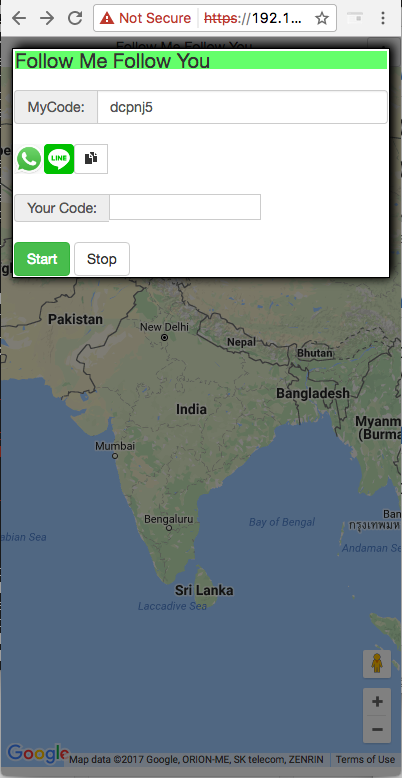
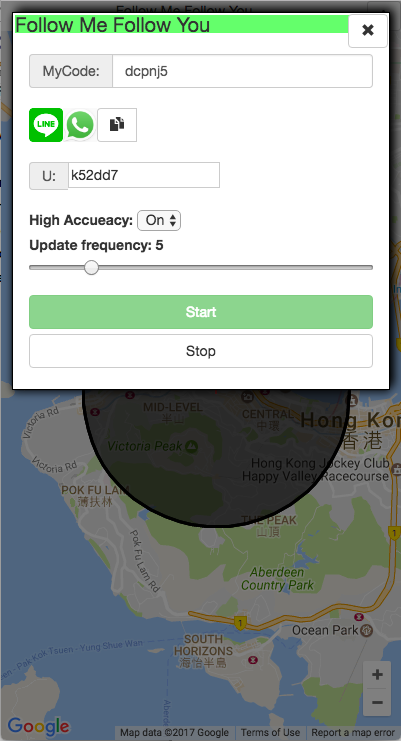
see update 2017-02-14 in readme.md

diff --git a/js/index.js b/js/index.js
@@ -1,3 +1,5 @@
+"use strict";
+var gMapKey = 'YOUR_GOOGLE_MAP_JAVASCRIPT_API_KEY';
 var dheight = (window.innerHeight > 0) ? window.innerHeight : scree.height;
 var watchId = {}; //global-scoped variable for stop function to work.
 var mapDiv = document.getElementById("map");
@@ -6,8 +8,10 @@ var uPosition = {};
 var myCode = document.getElementById("sessionid").innerHTML;
 var me;
 var uMarkers = [];
-var gMapKey = 'YOUR_GOOGLE_MAP_JAVASCRIPT_API_KEY';
 var queryUCode;
+var gmap;
+var highAccuracy = $('#highAccuracy').val();
+var updateFrequency = $('#updateFrequency-fill').val();
 
 document.getElementById("myCodeBox").innerHTML = myCode;
 
@@ -17,9 +21,8 @@ $("#uCodeInput").change(function(){
 
 dheight = dheight -30;
 
-class marker{
-
-  constructor(map, name, scale, location, color = '#F00'){
+var marker = class{
+  constructor(map, name, scale, location, color){
     this.map = map;
     this.name = name;
     this.scale = scale;
@@ -46,7 +49,6 @@ class marker{
       atrokeWeight: 1,
       map: this.map
     });
-
   }
 
   updateLocation(location){
@@ -88,8 +90,8 @@ function queryUpdateUCode(){
         youCode: uCode
       },
       success: function(result){
-        result = JSON.parse(result);
         if(result != ""){
+          result = JSON.parse(result);
           result = {coords:{accuracy: result.accuracy, latitude: result.lat, longitude: result.lng}};
           updateUMarkers(uCode, result);
         }
@@ -102,20 +104,37 @@ function queryUpdateUCode(){
 
 function startLocation(){
   if(navigator.geolocation){
-    this.me = new marker(gmap, "M", 20, {lat: 0, lng: 0, accuracy: 1000}, "#000");
-    var watchId = navigator.geolocation.watchPosition(updateMPosition);
-  } else{
+    me = new marker(gmap, "M", 20, {lat: 0, lng: 0, accuracy: 1000}, "#000");
+    var watchId = navigator.geolocation.watchPosition(updateMPosition,
+      function(error){
+        if(error.code == 1){
+          alert('Please enable Location Service and try again');
+          $("#startPButton").prop('disabled', false);
+        }else if(error.code == 2){
+          alert('Position is currently unavailable, please turn on WiFi and/or GPS.');
+          $("#startPButton").prop('disabled', false);
+        }else if(error.code == 3){
+          alert('Position timeout.');
+        }
+      },{
+        enableHighAccuracy : highAccuracy,
+        maximumAge : 0
+      }
+    );
+  }else{
     alert("Please enable location service or location service is not supported on your device.");
   }
   uCode = document.getElementById("uCodeInput").value;
   queryUCode = setInterval(function(){
-    queryUpdateUCode();
-  }, 5000);
+    if(uCode != ''){
+      queryUpdateUCode();
+    }
+  }, updateFrequency*1000 );
 };
 
 function updateMPosition(position){
-  this.me.updateLocation(position);
-  this.me.updateOnMap();
+  me.updateLocation(position);
+  me.updateOnMap();
   $.ajax({
     type: "POST",
     url: "fmfu.php",
@@ -126,16 +145,16 @@ function updateMPosition(position){
       youCode: uCode
     },
     success: function(result){
-      result = JSON.parse(result);
       if(result != ""){
+        result = JSON.parse(result);
         result = {coords:{accuracy: result.accuracy, latitude: result.lat, longitude: result.lng}};
         updateUMarkers(uCode, result);
       }
     },
     error: function(error){
+      console.debug("[DEBUG]121 error: ", error);
     }
   });
-
 }
 
 function updateUMarkers(uCode, uPosition){
@@ -144,7 +163,6 @@ function updateUMarkers(uCode, uPosition){
   }else{
     uMarkers[uCode].updateLocation(uPosition);
     uMarkers[uCode].updateOnMap();
-
   }
 }
 
@@ -159,4 +177,20 @@ function startPos(){
   startLocation();
 }
 
+$('#highAccuracy').change(function(){
+  highAccuracy = $('#highAccuracy').val();
+  navigator.geolocation.clearWatch(watchId);
+  clearInterval(queryUCode);
+  startLocation();
+});
+
+$('#updateFrequency-fill').change(function() {
+  $('#updateFrequency').html($('#updateFrequency-fill').val());
+  navigator.geolocation.clearWatch(watchId);
+  clearInterval(queryUCode);
+  startLocation();
+});
+
 $.getScript("https://maps.googleapis.com/maps/api/js?key="+gMapKey+"&callback=initMap");
+$('#updateFrequency').html($('#updateFrequency-fill').val());
+$('.panelFmfu').modal('show');

diff --git a/index.php b/index.php
@@ -16,10 +16,8 @@ if (isset($_GET["m"])){
 	<script src="js/bootstrap.min.js"></script>
 	<link rel="stylesheet" href="css/bootstrap.min.css" >
 	<title> Follow Me Follow You</title>
-
 </head>
 <body>
-
 	<?php
 	echo "<div id='sessionid' class='hidden'>".$sessioncode."</div>"; //echo session id into a hidden div
 	?>
@@ -28,12 +26,11 @@ if (isset($_GET["m"])){
 		<button id="settings" type="button" class="btn btn-default btn-sm pull-right" data-toggle="modal" data-target=".panelFmfu"><span class="glyphicon glyphicon-option-vertical" aria-hidden="true"></span></button>
 	</div>
 	<div id="map"></div>
-
-
 	<div class="modal fade panelFmfu" tabindex="-1" role="dialog" aria-labelledby="Setting">
 		<div class="modal-dialog modal-lg" role="document">
 			<div class="modal-content">
 				<div id="panelFmfu">
+					<button type="button" class="btn btn-default pull-right" data-dismiss="modal" name="button"><span aria-hidden="true" class="glyphicon glyphicon-remove"></span></button>
 					<div class="panelTitle">Follow Me Follow You</div>
 					<div class="container">
 						<br>
@@ -41,43 +38,45 @@ if (isset($_GET["m"])){
 							<span class="input-group-addon" id="myCode">MyCode: </span>
 							<span id="myCodeBox" type="text" class="form-control" aria-describedby="myCode">test</span>
 						</div>
+						<br>
 						<div class="btn-group">
-							<button type="button" class="btn btn-default btn-sm pull-right"><span class="glyphicon glyphicon-duplicate"></span></button>
+							<button type="button" class="btn btn-default btn-md pull-right"><span class="glyphicon glyphicon-duplicate"></span></button>
 							<?php
-							echo '<a class="pull-right" href="whatsapp://send?text=' .$domainName. '/?u=' .substr($sessioncode, -6). '" data-action="share/whatsapp/share"><img src="imgs/WhatsApp30x30.png" width="30" height="30" alt="WhatsApp Share!" /></a>';
-							echo '<a class="pull-right" href="http://line.me/R/msg/text/?' .$domainName. '/?u=' .substr($sessioncode, -6). '"><img src="imgs/line30x30.png" width="30" height="30" alt="LINE it!" /></a>';
+							echo '<a class="pull-right" href="whatsapp://send?text=' .$domainName. '/?u=' .substr($sessioncode, -6). '" data-action="share/whatsapp/share"><img src="imgs/WhatsApp30x30.png" width="34" height="34" alt="WhatsApp Share!" /></a>';
+							echo '<a class="pull-right" href="http://line.me/R/msg/text/?' .$domainName. '/?u=' .substr($sessioncode, -6). '"><img src="imgs/line30x30.png" width="34" height="34" alt="LINE it!" /></a>';
 							?>
 						</div>
-
 						<br>
 						<br>
-
 						<div class="input-group">
 							<span class="input-group-addon" id="uCode">U: </span>
 							<?php
-
 							if (isset($_GET["u"])){
 								$u = $_GET["u"];
 								echo "<input id='uCodeInput' value='$u' aria-describedby='uCode' placeholder='Put your fds code here.' ></input>";
 							}else{
 								echo "<input id='uCodeInput' aria-describedby='uCode' placeholder='Put your fds code here.'></input>";
 							}
-
 							?>
 						</div>
 						<br>
-						<button id="startPButton" type="button" class="btn btn-success start pButton" onclick="startPos()">Start</button>
-						<button id="stopPButton" type="button" class="btn btn-default stop pButton" onclick="stopLocation()">Stop</button>
+						<label for="highAccuSlider">High Accueacy:</label>
+						<select name="highAccuSlider" id="highAccuracy" data-role="slider">
+							<option value="false">Off</option>
+							<option value="true" default>On</option>
+						</select>
+						<br>
+						<label for="updateFrequency-fill">Update frequency: <span id="updateFrequency"></span></label>
+						<input type="range" name="updateFrequency-fill" id="updateFrequency-fill" value="5" min="3" max="15" step="1" data-highlight="true">
+						<br>
+						<button id="startPButton" type="button" class="btn btn-success start pButton btn-block" onclick="startPos()">Start</button>
+						<button id="stopPButton" type="button" class="btn btn-default stop pButton btn-block" onclick="stopLocation()">Stop</button>
 						<br>
 					</div>
-
 				</div><!-- id="panelFmfu" -->
 			</div>
 		</div>
 	</div>
-
-
-
-	<script src="js/indexjs.js"></script>
-
-</body></html>
+	<script src='js/index.js'></script>
+</body>
+</html>

diff --git a/fmfu.php b/fmfu.php
@@ -31,21 +31,37 @@ if(isset($myCode)){
 
 	$stmt->bind_Param("ssss", $myCode, $mylatitude, $mylongitude, $myaccuracy);
 
-	$stmt->execute();
+	if($stmt->execute()){
+		// echo "sql insert success.";
+	}else{
+		// echo "sql insert fail.";
+	}
+
 	$stmt->close();
 }
 
-if (isset($uCode)) {
+if ( $uCode != '') {
 
 	$stmt = $conn->prepare("SELECT latitude, longitude, accuracy FROM ext_userloc WHERE deviceId=? ORDER BY no DESC LIMIT 1");
+
 	$stmt->bind_Param("s", $uCode);
+
 	$stmt->execute();
-	$stmt->bind_result($lat, $long, $accuracy);
-	while ($stmt->fetch()){
-		$output = array('lat' => $lat, 'lng'=> $long, 'accuracy' => $accuracy);
+
+	$stmt->store_result();
+
+	if($stmt->num_rows > 0){
+		$stmt->bind_result($lat, $long, $accuracy);
+		while ($stmt->fetch()){
+			$output = array('lat' => $lat, 'lng'=> $long, 'accuracy' => $accuracy);
+		}
+		// echo '$output: ' . $output;
+		$latlong =  json_encode($output, JSON_FORCE_OBJECT);
+
+		echo $latlong;
+
 	}
-	$latlong =  json_encode($output, JSON_FORCE_OBJECT);
-	echo $latlong;
+
 }
 $conn->close();
 ?>

diff --git a/README.md b/README.md
@@ -5,6 +5,11 @@ No register, no login
 Share your realtime location with your friends on Google Map by a simply one click.
 
 ## Update
+2017-02-14
+- Added 'High Accuracy' and 'Update Frequency' in settings.
+- File name corrected.
+- Added missing information in SQL setup file(fmfu.sql).
+
 2017-02-12
 - Added accuracy to markers
 - Hide session ID on front-end.
